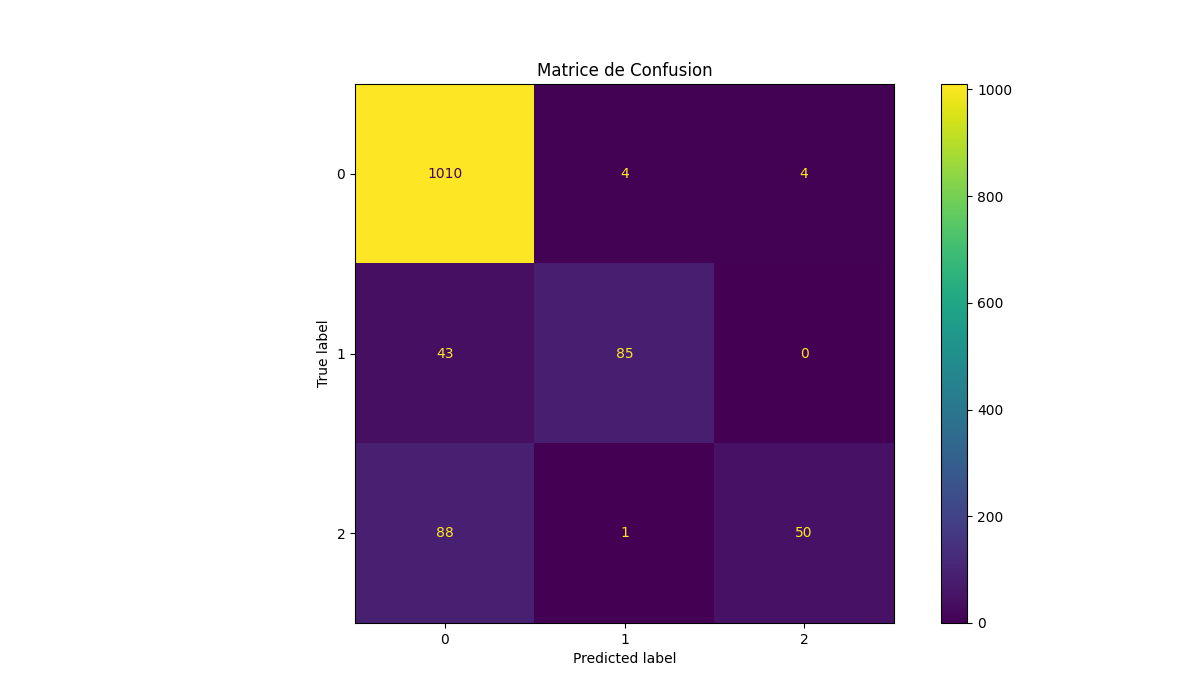
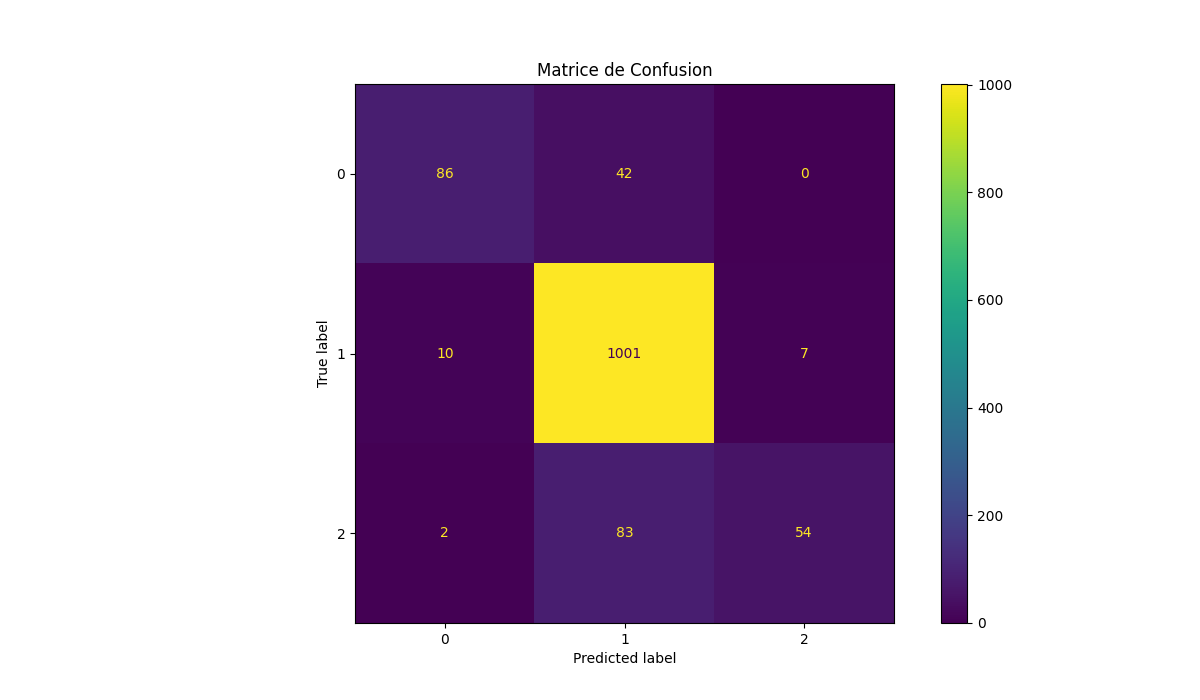
modif des labels

diff --git a/src/sentiment_analysis.py b/src/sentiment_analysis.py
@@ -42,8 +42,8 @@ def classify_tweets(X_test, y_pred):
       tweet = X_test.iloc[i] #.iloc car c'est un objet de type Series pandas
       if label == 1:
         true_news.append({"text": tweet, "label": 1})
-      elif label == 2:
-        fake_news.append({"text": tweet, "label": 2})
+      elif label == 0:
+        fake_news.append({"text": tweet, "label": 0})
       elif label == 3:
         continue
     
@@ -70,7 +70,7 @@ def sentiment_analysis_on_results(tweets):
     #Moyenne des scores de polarité obtenus avec les deux analyseurs
     combined_polarity = (blob_polarity + vader_polarity) / 2
 
-    if label == 2 : # Fake news
+    if label == 0 : # Fake news
         fake_news_polarity.append(combined_polarity)       
     elif label == 1 : # True news
         true_news_polarity.append(combined_polarity)

diff --git a/src/preprocessing.py b/src/preprocessing.py
@@ -9,7 +9,7 @@ def conversion_donnees(dico) :
     df = pd.DataFrame.from_dict(dico, orient='index')
 
     #Conversion des étiquettes du df en valeurs numériques
-    df['label'] = df['label'].map({"true_news": 1, "fake_news": 2, "unverified" : 3})
+    df['label'] = df['label'].map({"true_news": 1, "fake_news": 0, "unverified" : 3})
     y = df['label']
     X = df['text']
 
